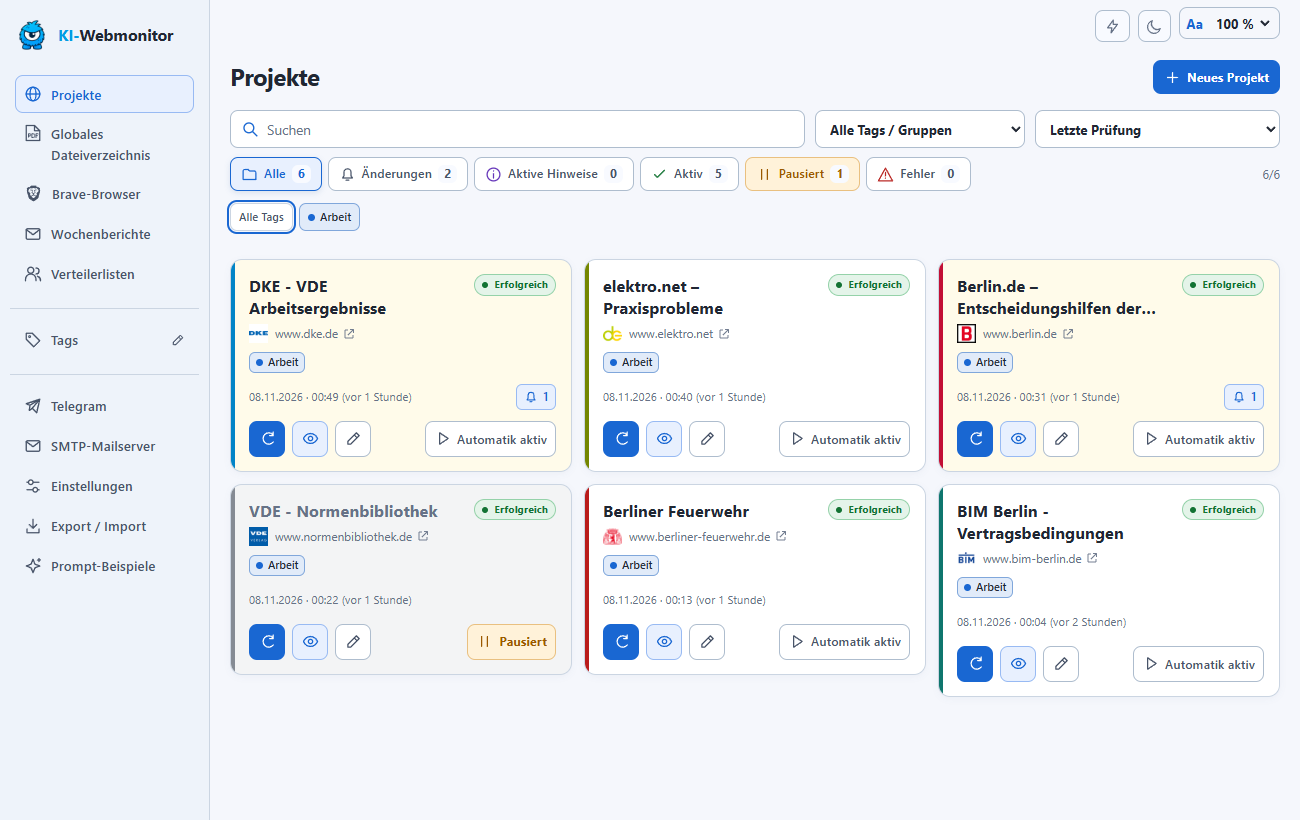
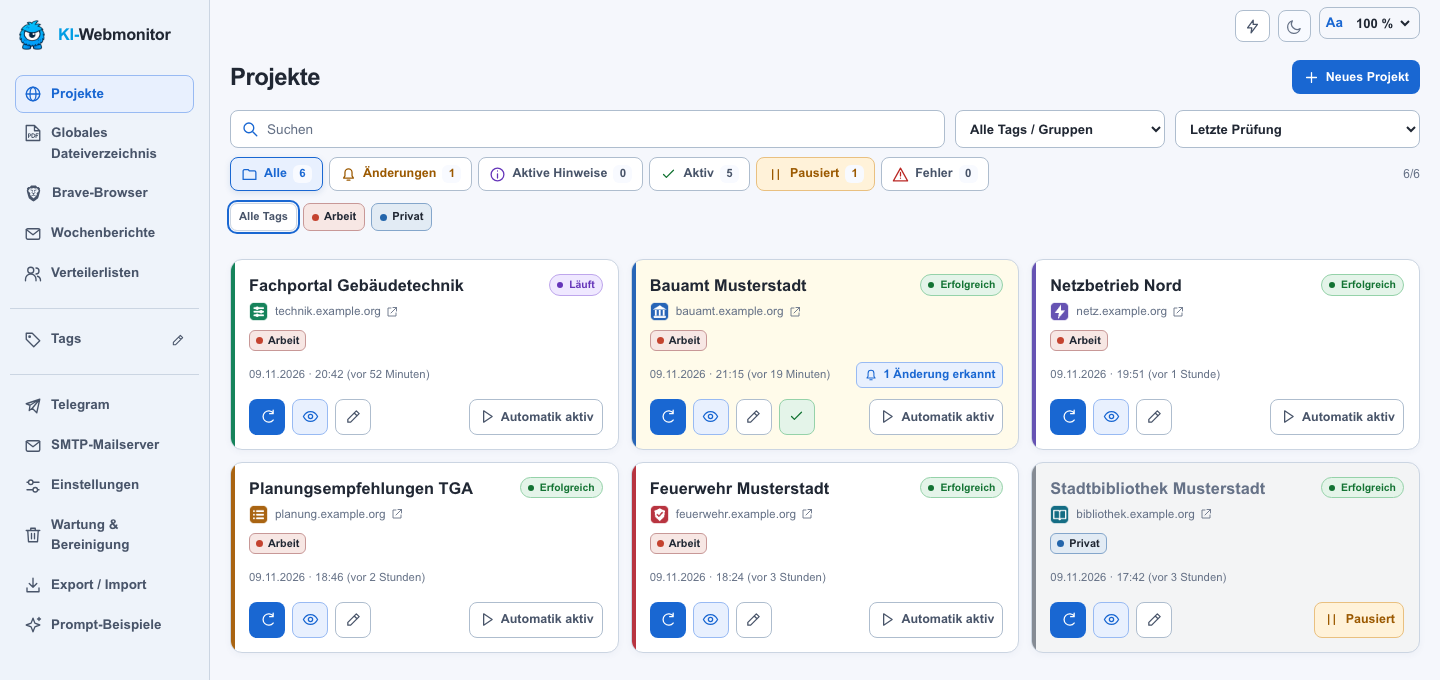
Refresh README and organize project prompt examples

diff --git a/README.md b/README.md
@@ -1,5 +1,5 @@
 <p align="center">
-  <img src="app/static/app-logo.png" width="112" alt="Blaues Monster mit einem Auge, das Logo des KI-Webmonitors">
+  <img src="app/static/login-mascot.png" width="112" alt="Blaues Maskottchen mit Brille und einem Blatt Papier">
 </p>
 <h1 align="center">
   <picture>
@@ -9,13 +9,15 @@
 </h1>
 <p align="center"><strong>Webseiten und Dokumente im Blick behalten</strong></p>
 
-Dieser kostenlose KI-Webmonitor prüft Webseiten auf verlinkte Dateien nach einem festgelegten Zeitplan. Du legst für jedes Projekt fest, welche Bereiche er prüfen und welche Änderungen er melden soll. Im Dashboard findest du die Ergebnisse mit Quellenlink und Prüfverlauf. Heruntergeladene Dateifassungen stehen im Archiv zum Vergleich bereit.
+Der kostenlose KI-Webmonitor prüft Webseiten und verlinkte Dokumente nach einem Zeitplan. Pro Projekt legst du fest, welche Bereiche der Monitor prüft und welche Änderungen er meldet. Das Dashboard zeigt die Ergebnisse mit Quellen und Prüfverlauf. Heruntergeladene Dateifassungen bleiben im Archiv für den Vergleich verfügbar.
 
-Web-App, Brave und Archiv laufen in Docker. Für die KI-Auswertung verbindet sich der Stack mit einem selbst betriebenen lokalen oMLX-Server über dessen OpenAI-kompatible API oder einen Cloudanbieter deiner Wahl.
+Web-App, Brave und Archiv laufen in Docker. Die KI-Auswertung nutzt einen erreichbaren Modellserver mit OpenAI-kompatibler API im privaten Netz, etwa [oMLX](https://github.com/jundot/omlx).
 
-![Projektübersicht mit Favicons für DKE, VDE, elektro.net und weitere Projekte aus der Gruppe Arbeit](docs/screenshots/dashboard.png)
+[Aktueller Release](https://github.com/adriantagonist87/KI-webmonitor/releases/latest) · [Installation](#installation) · [Projektprompt-Beispiele](docs/projektprompts/) · [Betriebsdetails](README.de.md)
 
-*Die Screenshots zeigen die App mit ausgewählten Arbeitsprojekten und Beispieldaten.*
+![Dashboard mit laufender Prüfung, Statusfiltern und einer Projektkarte mit offener Änderung und grünem Quittierbutton](docs/screenshots/dashboard.png)
+
+*Die Screenshots stammen aus der App und verwenden fiktive Beispieldaten.*
 
 ## Ideen für eigene Projekte
 
@@ -38,54 +40,60 @@ Der KI-Webmonitor läuft auf einem Linux-Docker-Host mit `amd64`. Alle drei Wege
 | **Dockhand** | [Git-Stack oder lokalen Stack im Editor anlegen](docs/DOCKHAND.md) |
 | **Docker Compose** | [Projekt im Terminal einrichten und starten](docs/COMPOSE.md) |
 
-Für die KI-Funktionen benötigt der Stack einen erreichbaren oMLX-Server. Nach der Anmeldung unter **Einstellungen** die oMLX-Adresse, den API-Token und das Modell hinterlegen und die Verbindung testen. Dieselben Werte lassen sich als `KIWM_OMLX_URL`, `KIWM_OMLX_API_KEY` und `KIWM_MODEL` in der Stack-Konfiguration setzen. Nichtleere Umgebungsvariablen haben Vorrang vor den Einstellungen in der App. Für Text, Tool Calling und Vision lassen sich bei Bedarf getrennte Modelle wählen.
+Nach der Anmeldung unter **Einstellungen** die API-Adresse des Modellservers, bei Bedarf den Token und die Modelle eintragen und die Verbindung testen. Für Text, Tool Calling und Vision lassen sich getrennte Modelle wählen. Nichtleere KI-Vorgaben aus dem Stack haben Vorrang vor den Einstellungen der Weboberfläche. [Beispiel für Stack-Variablen](.env.example)
+
+Mit einem festen `VERSION`-Wert beziehst du die fünf Images eines bestimmten Releases. In Dockhand kannst du mit `VERSION=latest` und **Re-pull images** beim Deploy den neuesten stabilen Release beziehen. [Dockhand-Update mit `latest`](docs/DOCKHAND.md#den-neuesten-release-mit-latest-beziehen)
 
 ## Ein Projekt einrichten
 
 1. **Neues Projekt** wählen. Name, Start-URL, Tags und globalen oder individuellen Prüfzeitplan festlegen.
 2. Im Prompt konkret beschreiben, **wo** der Agent suchen soll, **welche Inhalte** in den Prüfbereich gehören und **was** als Änderung zählt. Bei Menüs und Klappbereichen die sichtbaren Beschriftungen nennen. Erlaubte Hostnamen begrenzen die Webseiten, die das Projekt aufrufen darf.
-3. Falls nötig, die Anmeldung über **Webseitenzugang** konfigurieren oder die Seite im grafischen Brave öffnen und sich dort anmelden. Brave speichert die Sitzung im Browserprofil. Zugangsdaten gehören in die Zugangseinstellungen, Passwörter und Einmalcodes bei manueller Anmeldung direkt in den Browser.
-4. Die erste Prüfung über das Aktualisieren-Symbol starten und den erfassten Umfang prüfen. Der erste vollständige Lauf bildet den Ausgangsstand. Die Automatik lässt sich auf der Projektkarte jederzeit pausieren oder wieder einschalten.
-
-Ein kurzer Beispielauftrag für eine Dokumentseite:
+3. Bei Bedarf die Anmeldung unter **Webseitenzugang** konfigurieren oder im grafischen Brave anmelden. Brave speichert die Sitzung im Browserprofil. Zugangsdaten gehören in die Zugangseinstellungen oder bei manueller Anmeldung direkt in den Browser.
+4. Für eine Webseite mit mehreren Navigationsschritten unter **Browser-Makros** den Klickweg bis zur Zielansicht aufzeichnen, prüfen und für das Projekt speichern. Bei der nächsten Prüfung spielt Brave das Makro ab und übergibt der KI die erreichte Seite und das Klickprotokoll.
+5. Die erste Prüfung über das Aktualisieren-Symbol starten und den erfassten Umfang prüfen. Der erste vollständige Lauf bildet den Ausgangsstand. Die Automatik lässt sich auf der Projektkarte pausieren und wieder einschalten.
 
 > Prüfe den Abschnitt „Merkblätter“. Klappe jede Kategorie nacheinander auf und erfasse alle dort verlinkten PDFs. Melde neue Merkblätter und Dateien, deren SHA-256 sich unter derselben URL geändert hat. Nenne je Änderung den Titel und den Quellenlink. Führe nicht erreichbare Quellen gesondert auf.
 
-Weitere Beispiele für Artikel, Dokumentlisten, Akkordeons und Login stehen in der App und in [Neue Webseiten einrichten](docs/PROJEKTE.md).
+Weitere Vorlagen gibt es in der App unter **Prompt-Beispiele**, in der Anleitung und als Textdateien im Repository. [Neue Webseiten einrichten](docs/PROJEKTE.md) · [Projektprompt-Beispiele](docs/projektprompts/) · [Screenshot der Makroansicht](docs/screenshots/browser-makros.png)
 
 ## Änderungen nachvollziehen
 
-Das Dashboard zeigt Prüfstatus, offene Änderungen und Hinweise. Es lässt sich nach Tags, Status und Prüfzeitpunkt filtern oder sortieren. In der Projektansicht steht die fachliche Auswertung zuerst. Der Verlauf führt zu einzelnen Prüfungen mit Quellen, Screenshots, technischen Unterschieden und Aktionsprotokoll.
+Das Dashboard filtert nach Tags und Prüfstatus. Ein erneuter Klick auf den aktiven Statusfilter führt zurück zu **Alle**. Ohne Statusfilter stehen laufende Prüfungen oben. Der Filter **Änderungen** pulsiert bei offenen Änderungen, die auf den hervorgehobenen Projektkarten mit dem grünen Häkchen quittiert werden können.
 
-![Projektauswertung für die DKE-Arbeitsergebnisse mit einer als Vornorm gekennzeichneten Ausgabe](docs/screenshots/dke-auswertung.png)
+In der Projektansicht steht die fachliche Auswertung im Vordergrund. Bei Fachartikeln kann die KI zugängliche Texte zusammenfassen. Über den Verlauf erreichst du einzelne Prüfungen mit Quellen, Screenshots, technischen Unterschieden und Aktionsprotokoll.
 
-Für Fachartikel kann die KI die zugänglichen Texte kurz zusammenfassen, etwa die beantworteten Fragen in einem Fachportal. Der Prüfbericht weist auf offene oder nicht erreichbare Quellen hin.
-
-![Auswertung von beantworteten Praxisfragen bei elektro.net](docs/screenshots/elektro-auswertung.png)
+![Projektansicht mit relevanter Änderung, KI-Auswertung und Prüfverlauf](docs/screenshots/auswertung.png)
 
 ### Dateien und Dateinachweise
 
 Bei PDF-, Word- und Excel-Dateien lädt der Monitor die Originaldatei und berechnet ihren SHA-256-Hash. Ein anderer Hash belegt, dass sich die Dateibytes geändert haben. PDF- oder HTTP-Datumsangaben werden ergänzend ausgewiesen. Für die fachliche Prüfung stehen die archivierten Fassungen zum Download bereit.
 
-Das **Globale Dateiverzeichnis** bietet Suche und Sortierung über Projekte hinweg, einzelne Downloads und einen ZIP-Download mit einem Ordner je Projekt. Der separate Dokumentname kann aus dem digitalen Text der ersten Seite ermittelt werden. Diese Titelermittlung ist vom Hashvergleich getrennt und erfolgt ohne OCR. Aus einer geänderten Datei leitet die App keine Aussage über geänderte fachliche Inhalte ab.
+Das **Globale Dateiverzeichnis** bietet Suche und Sortierung über Projekte hinweg, Dateigrößen in MB, einzelne Downloads und einen ZIP-Download mit einem Ordner je Projekt. Aus dem digitalen Text der ersten Seite kann die App den Dokumenttitel ermitteln. Diese Titelermittlung erfolgt getrennt vom Hashvergleich und ohne OCR.
 
-![Dateiverzeichnis mit Projekt-Favicons, Dateityp, Dokumenttitel, Originaldateiname und Download](docs/screenshots/dateiverzeichnis.png)
+![Globales Dateiverzeichnis mit sortierbarer Spalte Größe in MB, Dokumenttiteln und Downloads](docs/screenshots/dateiverzeichnis.png)
 
 ## Benachrichtigungen und Wochenberichte
 
-- **Telegram** meldet relevante Änderungen und Prüfprobleme. Die Automatik lässt sich global oder je Projekt steuern. Meldungen verlinken ihre Quellen.
-- **E-Mail** liefert einen HTML-Wochenbericht mit Textalternative. Der Bericht entsteht montags um 08:00 Uhr in der Zeitzone `Europe/Berlin`. SMTP, Verbindungstest und Testmail lassen sich in der App einrichten. Vorschauen können ohne produktiven Versand erstellt werden.
-- **Verteilerlisten** beschränken Empfängerberichte auf ausgewählte Projekte oder Tags. Wochenberichte verlinken die überwachten Websites und die Originalquellen relevanter Änderungen. Die Adminansicht archiviert Berichte und Versandstatus chronologisch.
+- **Telegram** meldet relevante Änderungen und Prüfprobleme. Die Automatik lässt sich global oder je Projekt steuern. Die Auswertung behält Absätze und Listen und verweist auf ihre Quellen.
+- **E-Mail** liefert einen HTML-Bericht mit Textalternative. Unter **SMTP-Mailserver** lassen sich die Uhrzeit in `Europe/Berlin`, der Berichtszeitraum in Stunden oder Tagen und die Häufigkeit einstellen. Möglich sind tägliche, werktägliche, wöchentliche und monatliche Berichte sowie Stundenintervalle. Gespeicherte Einstellungen für SMTP und Telegram haben Vorrang vor den Stack-Vorgaben.
+- **Bericht und Verteiler** zeigen relevante Änderungen und eine Übersicht der Quellen mit und ohne Änderungen. Pro geänderter Quelle führt ein Originalquellenlink zur Webseite mit dem Eintrag. Die Quellennamen verlinken die überwachten Websites. Empfängerberichte lassen sich nach Projekten oder Tags eingrenzen. Die Adminansicht bietet Vorschauen und ein Versandarchiv.
 
-![Wochenbericht für den Tag Arbeit mit Favicons der Quellen in einer geöffneten E-Mail im Stil von Outlook 2024](docs/screenshots/wochenbericht.png)
-
-*Nachgestelltes Outlook-2024-Fenster mit Beispieladressen.*
+![HTML-Bericht mit lesendem Maskottchen, zwei relevanten Änderungen und verlinkter Quellenübersicht](docs/screenshots/wochenbericht.png)
 
 [Telegram und SMTP](docs/KOMMUNIKATION.md) · [Verteiler und Versandprotokoll](docs/VERTEILER.md)
 
-## Betrieb, Daten und Grenzen
+## Wartung und Datensicherung
 
-- **Datenhaltung.** Projekte, Prüfverlauf, Berichte und Dateien bleiben in Docker-Volumes. Einfache Exporte enthalten die Projektkonfiguration, erweiterte Exporte auch den Verlauf. **Wartung & Bereinigung** zeigt die Speicherbelegung und bietet eine Vorschau für projektbezogene und globale Bereinigungen. Für eine vollständige Wiederherstellung die persistenten Volumes einschließlich Browserprofil und privater Konfiguration sichern.
+Unter **Wartung & Bereinigung** siehst du belegten und freien Speicher sowie Originaldateien, Prüfverläufe und Protokolle je Projekt in einer sortierbaren Tabelle. Bereinigungen lassen sich gezielt oder global auswählen und vor der Ausführung prüfen. Für einen neuen Ausgangsstand gibt es eine eigene Aktion mit Vorschau und Bestätigung.
+
+![Wartungsansicht mit Speicherbelegung, sortierbaren Projektspalten und Auswahl für die Bereinigung](docs/screenshots/wartung.png)
+
+Unter **Export / Import** kannst du die Projektkonfiguration als JSON oder zusammen mit dem Verlauf und den Archivdateien als ZIP exportieren. Eine Export-Passphrase schützt auf Wunsch gespeicherte Webseitenzugänge und die in der App hinterlegten oMLX-, SMTP- und Telegram-Zugangsdaten. Beim Import auf einer kompatiblen Installation kannst du Projekt- und App-Zugänge getrennt übernehmen. [Screenshot des geschützten Exports](docs/screenshots/geschuetzter-export.png)
+
+Für eine vollständige Wiederherstellung sichere die persistenten Volumes einschließlich des Brave-Profils. [Sicherung, Wiederherstellung und Updates](docs/OPERATIONS.md)
+
+## Zugriff und Prüfgrenzen
+
 - **Webseitenzugriff.** Brave unterstützt JavaScript, Cookies und grafische Anmeldung. Der Agent kann Links, Klappbereiche und ausgewählte Bedienelemente nutzen. Bei erkanntem Bot-Schutz endet die Prüfung. Die nächste reguläre Prüfung bleibt geplant. CAPTCHAs und erforderliche manuelle Bestätigungen werden im Browser erledigt.
 - **Prüfgrenzen.** Zeit, Anzahl der Seiten und Downloads sowie Dateigröße sind pro Lauf begrenzt. Das Ergebnis hängt vom sichtbaren Inhalt, der Webseitenstruktur und dem eingesetzten Modell ab. Unvollständige Prüfungen sind im Dashboard erkennbar.
 - **Zugriff und Geheimnisse.** Den Stack per SSH-Tunnel oder im vertrauenswürdigen LAN mit Adminanmeldung betreiben. Zugangsdaten, API-Token, Browserprofile und Sicherungen gehören in private Speicherorte. Für öffentlichen HTTPS-Zugriff gelten die Einstellungen für den vorgeschalteten Proxy.

diff --git a/README.de.md b/README.de.md
@@ -9,15 +9,16 @@ Brave, Anwendung und Daten laufen in Docker. Die KI-Inferenz erfolgt ausschließ
 keine Modelle und benötigt keinen Cloud-KI-Anbieter.
 
 - Projekte mit eigenem Prompt, Zeitplan, Tags und Webseitenzugang.
-- Grafisch bedienbarer Brave mit Werbeblocker und dauerhaftem Anmeldeprofil.
+- Grafisch bedienbarer Brave mit Werbeblocker, dauerhaftem Anmeldeprofil und aufzeichnungsfähigen Browser-Makros je Projekt.
 - Optionaler [visueller Bedienmodus mit echter Maus und Tastatur](docs/VISUELLE-BROWSERBEDIENUNG.md), pro Projekt wählbar und zunächst in Erprobung.
 - Technischer Webseitenvergleich und verständliche, aufklappbare Berichte.
 - Vollständiger Dateidownload, **SHA-256-Vergleich und Dateimetadaten**.
 - Der digitale Text der ersten Seite kann zur Ermittlung des Dokumenttitels
   verwendet werden. Der Dateivergleich erfolgt per Hash, ohne OCR.
-- HTML-Wochenbericht mit Textalternative; konfigurierbarer SMTP-Versand.
+- HTML-Berichte mit Textalternative, konfigurierbarem Berichtszeitraum und SMTP-Zeitplan.
 - Telegram-Sofortmeldungen mit KI-Auswertung bei Änderungen und Prüfproblemen.
-- Dateiverzeichnis, ZIP nach Projektordnern, Export und Reimport.
+- Globales Dateiverzeichnis mit Dateigrößen in MB und ZIP-Download nach Projektordnern.
+- Sortierbare Speicherübersicht, gezielte Bereinigung mit Vorschau und Export / Import mit optional verschlüsselten Zugangsdaten.
 
 ## Offline-Installation mit Portainer
 
@@ -97,7 +98,7 @@ prüfen. Nach Portänderungen den Tunnel entsprechend anpassen.
    Pausierte Projekte lassen sich gelb filtern; wartende automatische Läufe
    entfallen beim Pausieren, laufende und manuelle Prüfungen bleiben erhalten.
    Änderungsbefunde sind direkt sichtbar; Quellen und technische Details lassen
-   sich aufklappen. Eine allgemeine Promptvorlage steht in [docs/PROJEKTE.md](docs/PROJEKTE.md).
+   sich aufklappen. [Allgemeine Promptvorlage](docs/PROJEKTE.md) · [Projektprompt-Beispiele](docs/projektprompts/)
 
 Eine erste Fassung ist ein Ausgangsstand. Dateien werden vollständig geladen;
 gleiche Bytes gelten als unverändert, andere Bytes als **Datei geändert**.
@@ -124,8 +125,8 @@ Ausgaben mit `VDE V` in der Bezeichnung werden als **Vornorm** gespeichert und
 in der Auswertung sowie in Benachrichtigungen gekennzeichnet.
 
 Telegram und SMTP haben eigene Einträge in der Sidebar. Beide lassen sich über
-die Oberfläche und über optionale Portainer-ENV-Werte konfigurieren. Verbindung
-und Testnachricht/Testmail können dort über Knöpfe geprüft werden. Telegram kann
+die Oberfläche konfigurieren. Gespeicherte Web-Einstellungen haben Vorrang vor
+optionalen Stack-Vorgaben. Verbindung und Testnachricht lassen sich dort prüfen. Telegram kann
 global für alle Projekte aus- oder eingeschaltet werden oder den einzelnen
 Projektvorgaben folgen. Standardmäßig ist es aus. Details und sämtliche Variablen:
 [Telegram und SMTP](docs/KOMMUNIKATION.md).
@@ -136,9 +137,9 @@ zählt mit. Erkannter Bot-Schutz beendet den aktuellen Lauf und unterdrückt die
 zusätzliche 30-Minuten-Fehlerwiederholung; das Projekt bleibt regulär aktiviert.
 HTTP `Retry-After` wird berücksichtigt. Es gibt keine CAPTCHA-Umgehung.
 
-Der konsolidierte Wochenbericht entsteht montags um 08:00 Uhr Europe/Berlin.
-Ohne produktive SMTP-Konfiguration bleibt er als **Vorschau · nicht versandt**
-gespeichert. Ein Testbericht ist ebenfalls eine Vorschau. Das optionale
+Unter **SMTP-Mailserver** sind Uhrzeit, Häufigkeit und Berichtszeitraum getrennt
+einstellbar. Montag um 08:00 Uhr in `Europe/Berlin` ist die Voreinstellung.
+Ohne aktivierten Versand bleibt der Bericht als Vorschau gespeichert. Das optionale
 [Testzubehör](compose.test.yaml) bietet echtes Test-SMTP mit Mailpit.
 Produktiver Versand wird ausschließlich über die SMTP-Einstellungen aktiviert.
 
@@ -215,9 +216,9 @@ Filter „Normen“, 17 Einträge des Ausgabejahrs 2026 und KI-Bericht.
 Bot-Schutz beendet weiterhin den aktuellen Versuch ohne Zusatzwiederholung;
 der reguläre Zeitplan bleibt aktiv.
 
-## Kompakter Wochenbericht
+## HTML-Berichte
 
-Release 1.4 verwendet dieselbe HTML-Ausgabe für Mail und isolierte Vorschau, mit Tagfarben, eingebetteten Favicons und drei Spalten für unveränderte Quellen. [Aufbau und Prüfungen](docs/WOCHENBERICHT-1.4.md).
+Die aktuelle Mailvorlage verwendet das lesende Maskottchen, eine Tabelle für relevante Änderungen und eine Übersicht der Quellen mit und ohne Änderungen. Die Berichte verlinken die überwachten Websites und pro geänderter Quelle die lesbare Originalseite. [Berichtsvorschau](docs/screenshots/wochenbericht.png) · [Zeitplan und Archiv](docs/VERTEILER.md)
 
 Farbige Dateisymbole und die systemunabhängige Animationssteuerung: [Darstellung 1.4.1](docs/DARSTELLUNG-1.4.1.md).
 

diff --git a/docs/KOMMUNIKATION.md b/docs/KOMMUNIKATION.md
@@ -62,8 +62,10 @@ Anmeldedaten werden erst nach dem TLS-Aufbau übertragen.
   SMTP-NOOP, ohne eine Mail zu versenden.
 - **Testmail senden** sendet eine kleine HTML-Mail mit Textalternative an den
   gespeicherten Empfänger, auch wenn der automatische Versand noch aus ist.
-- **Wochenberichte per E-Mail versenden** aktiviert den bestehenden konsolidierten
-  Bericht montags um 08:00 Uhr Europe/Berlin. Ohne Aktivierung bleibt er Vorschau.
+- **Berichte per E-Mail versenden** aktiviert den automatischen Versand. Uhrzeit,
+  Häufigkeit und Berichtszeitraum sind getrennt einstellbar. Die Voreinstellung
+  ist Montag um 08:00 Uhr in `Europe/Berlin` für die vorangegangenen sieben Tage.
+  Bei ausgeschaltetem Versand speichert die App den Bericht als Vorschau.
 
 Änderungen zuerst speichern; die Testknöpfe verwenden gespeicherte beziehungsweise
 effektive ENV-Werte. „Vom SMTP-Server angenommen“ bestätigt die Übergabe, nicht

diff --git a/docs/PROJEKTE.md b/docs/PROJEKTE.md
@@ -28,6 +28,9 @@ pro Projekt. Die vorhandenen begrenzten Sonderfälle stehen in ARCHITEKTUR.md.
 
 ## Allgemeine Vorlage für Dokumentseiten
 
+Konkrete Aufträge für Fachportale, Behörden und Netzbetreiber findest du in
+den [Projektprompt-Beispielen](projektprompts/).
+
 ```text
 Überwache die auf der Start-URL veröffentlichten Fachunterlagen zum Thema
 [THEMA]. Eingeschlossen sind [KATEGORIEN]; ausgeschlossen sind [AUSSCHLÜSSE].
